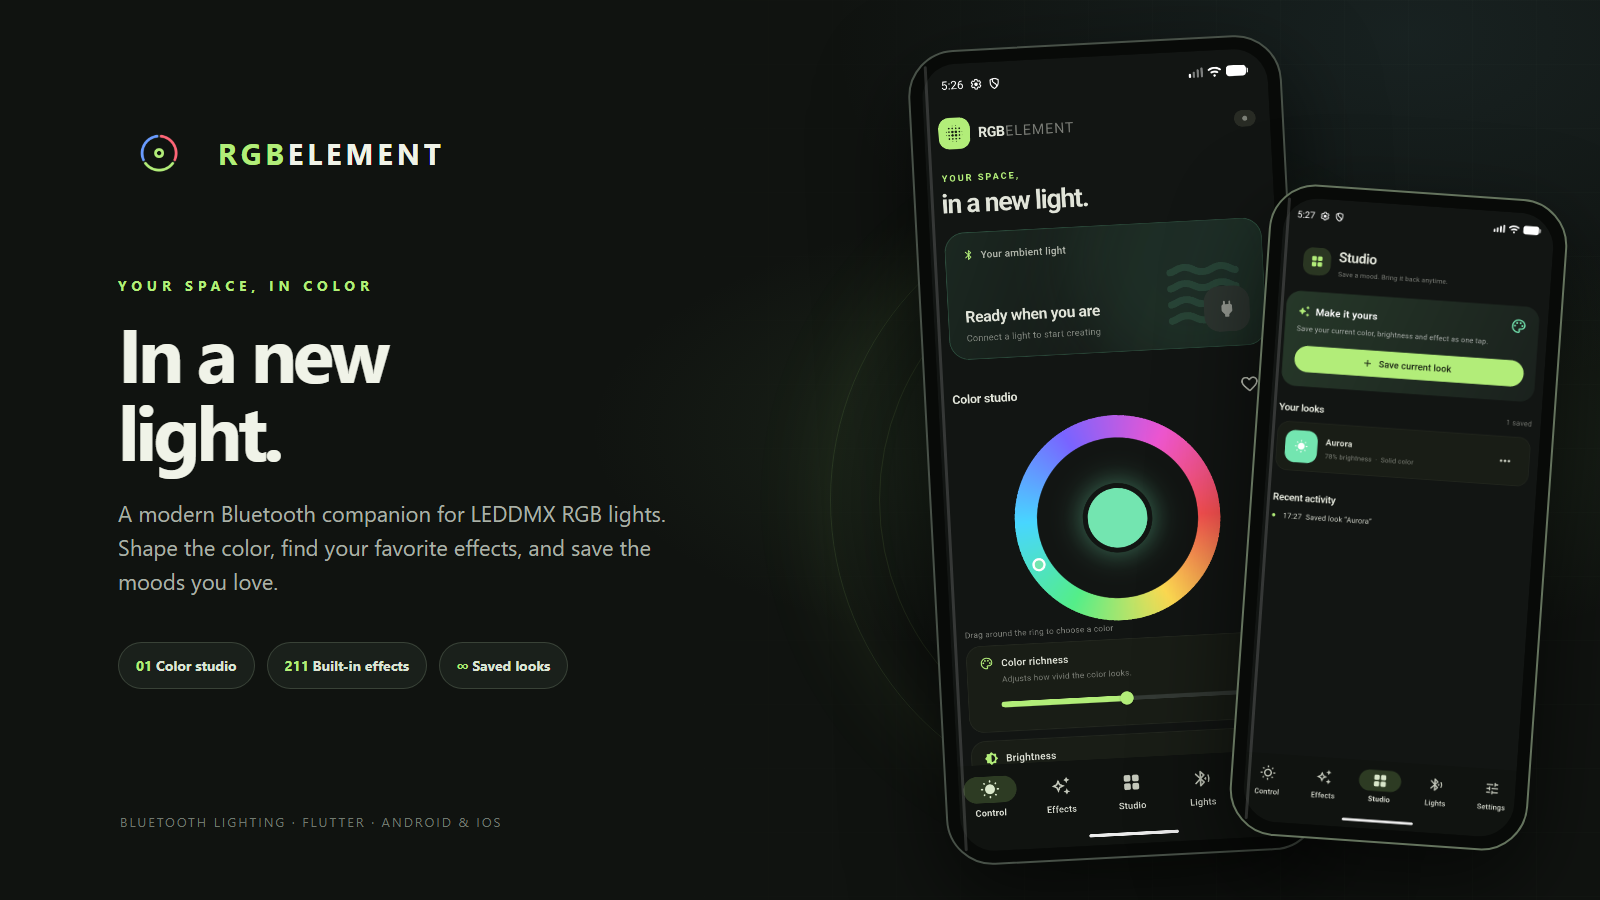
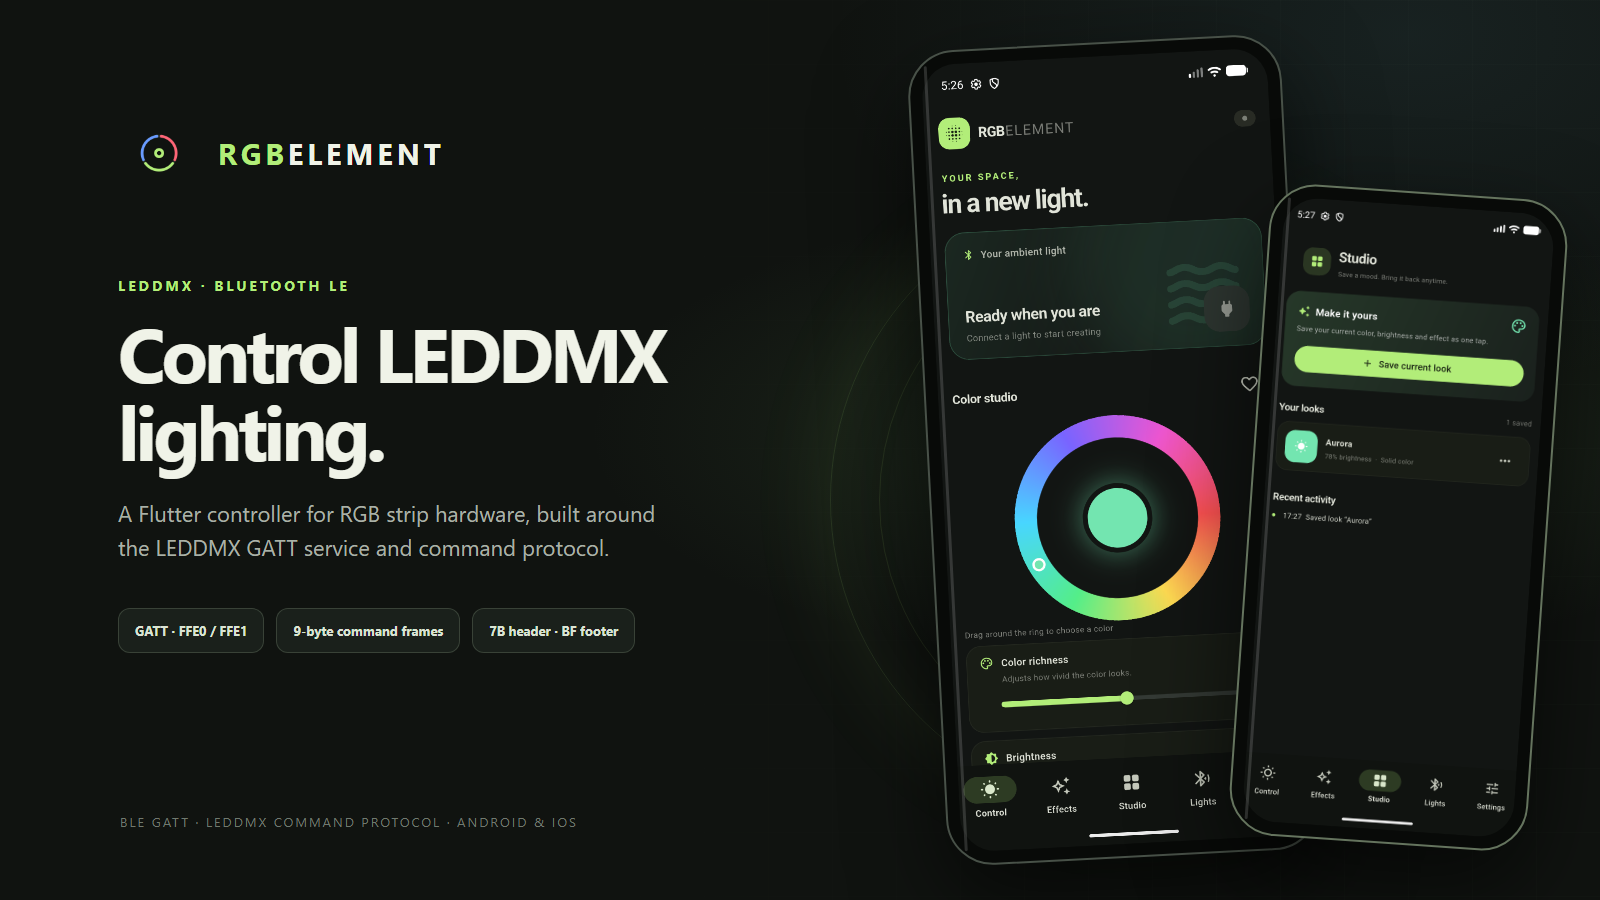
design: replace cover badges with protocol details

diff --git a/assets/cover.html b/assets/cover.html
@@ -33,12 +33,11 @@
       .brand img { width: 82px; height: 82px; object-fit: contain; }
       .brand-name { font-size: 29px; font-weight: 760; letter-spacing: 4px; }
       .brand-name span { color: #b2ed79; }
-      .eyebrow { color: #b2ed79; font-weight: 750; letter-spacing: 5px; font-size: 14px; margin-bottom: 18px; }
+      .eyebrow { color: #b2ed79; font-weight: 750; letter-spacing: 3px; font-size: 14px; margin-bottom: 18px; }
       h1 { margin: 0; font-size: 76px; line-height: 1.02; letter-spacing: -4px; font-weight: 760; }
       .summary { margin: 28px 0 0; max-width: 565px; color: #aab1a7; font-size: 22px; line-height: 1.55; }
       .chips { display: flex; gap: 12px; margin-top: 44px; }
-      .chip { padding: 13px 17px; border: 1px solid rgba(198,220,188,.18); border-radius: 24px; background: rgba(30,38,31,.75); color: #dbe4d4; font-size: 14px; font-weight: 650; }
-      .chip b { color: #b2ed79; font-weight: 750; }
+      .chip { padding: 13px 16px; border: 1px solid rgba(198,220,188,.18); border-radius: 12px; background: rgba(30,38,31,.75); color: #dbe4d4; font-size: 13px; font-weight: 650; white-space: nowrap; }
       .caption { position: absolute; left: 120px; bottom: 70px; color: #70796f; font-size: 13px; letter-spacing: 2px; text-transform: uppercase; }
       .phone { position: absolute; background: #080a08; border: 2px solid #485148; border-radius: 47px; padding: 12px; box-shadow: 0 34px 90px rgba(0,0,0,.6); overflow: hidden; }
       .phone img { display: block; width: 100%; height: 100%; object-fit: cover; border-radius: 35px; }
@@ -55,17 +54,17 @@
         <img src="branding/splash_mark.png" alt="" />
         <div class="brand-name"><span>RGB</span>ELEMENT</div>
       </div>
-      <div class="eyebrow">YOUR SPACE, IN COLOR</div>
-      <h1>In a new<br />light.</h1>
-      <p class="summary">A modern Bluetooth companion for LEDDMX RGB lights. Shape the color, find your favorite effects, and save the moods you love.</p>
+      <div class="eyebrow">LEDDMX · BLUETOOTH LE</div>
+      <h1>Control LEDDMX<br />lighting.</h1>
+      <p class="summary">A Flutter controller for RGB strip hardware, built around the LEDDMX GATT service and command protocol.</p>
       <div class="chips">
-        <div class="chip"><b>01</b> Color studio</div>
-        <div class="chip"><b>211</b> Built-in effects</div>
-        <div class="chip"><b>∞</b> Saved looks</div>
+        <div class="chip">GATT · FFE0 / FFE1</div>
+        <div class="chip">9-byte command frames</div>
+        <div class="chip">7B header · BF footer</div>
       </div>
     </main>
     <div class="phone phone-control"><div class="device-glint"></div><img src="screenshots/control.png" alt="RGBElement color controls" /></div>
     <div class="phone phone-studio"><div class="device-glint"></div><img src="screenshots/studio.png" alt="RGBElement saved looks" /></div>
-    <div class="caption">Bluetooth lighting · Flutter · Android &amp; iOS</div>
+    <div class="caption">BLE GATT · LEDDMX command protocol · Android &amp; iOS</div>
   </body>
 </html>
